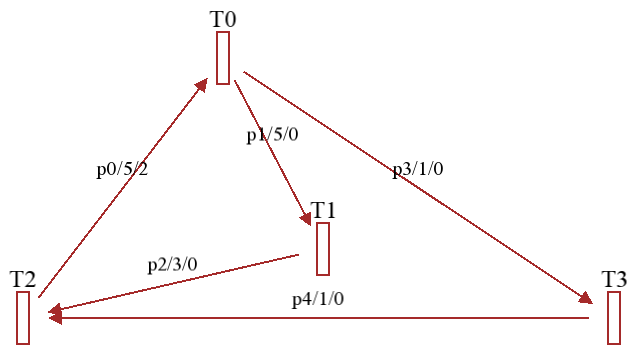
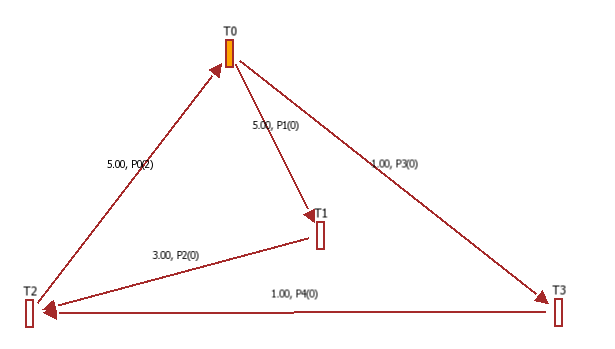
Manage graph event

diff --git a/src/PetriEditor.cpp b/src/PetriEditor.cpp
@@ -96,11 +96,14 @@ PetriEditor::PetriEditor(Application& application, PetriNet& net)
 
     switch (m_petri_net.type())
     {
+    case PetriNet::Type::Petri:
+        m_message_bar.setInfo("Welcome to Petri net editor! Type H key for help.");
+        break;
     case PetriNet::Type::TimedPetri:
         m_message_bar.setInfo("Welcome to timed Petri net editor! Type H key for help.");
         break;
-    case PetriNet::Type::Petri:
-        m_message_bar.setInfo("Welcome to Petri net editor! Type H key for help.");
+    case PetriNet::Type::TimedGraphEvent:
+        m_message_bar.setInfo("Welcome to timed graph event editor! Type H key for help.");
         break;
     case PetriNet::Type::GRAFCET:
         m_message_bar.setInfo("Welcome to GRAFCET editor! Type H key for help.");
@@ -312,6 +315,10 @@ void PetriEditor::draw(sf::Text& t, float const number, float const x, float con
 //------------------------------------------------------------------------------
 void PetriEditor::draw(Place const& place, uint8_t alpha)
 {
+    // In graph event we "compress" the graph by not displaying places.
+    if (m_petri_net.type() == PetriNet::Type::TimedGraphEvent)
+        return ;
+
     const float x = place.x;
     const float y = place.y;
 
@@ -411,17 +418,40 @@ void PetriEditor::draw(Transition const& transition, uint8_t alpha)
 //------------------------------------------------------------------------------
 void PetriEditor::draw(Arc const& arc, uint8_t alpha)
 {
-    // Transition -> Place
-    Arrow arrow(arc.from.x, arc.from.y, arc.to.x, arc.to.y, alpha);
-    m_render_texture.draw(arrow);
-
-    if ((arc.from.type == Node::Type::Transition) &&
-        (m_petri_net.type() == PetriNet::Type::TimedPetri))
+    if (m_petri_net.type() == PetriNet::Type::TimedGraphEvent)
     {
-        // Draw the timing
-        float x = arc.from.x + (arc.to.x - arc.from.x) / 2.0f;
-        float y = arc.from.y + (arc.to.y - arc.from.y) / 2.0f;
-        draw(m_text_token, arc.duration, x, y - 15);
+        // In graph event we "compress" the graph by not displaying places.
+        if (arc.from.type == Node::Type::Place)
+            return ;
+        // So we draw arrows between Transition to Transition using the
+        // property of graph event: there is only one place.
+        assert(arc.to.arcsOut.size() == 1u && "malformed graph event");
+        Node& next = arc.to.arcsOut[0]->to;
+        Arrow arrow(arc.from.x, arc.from.y, next.x, next.y, alpha);
+        m_render_texture.draw(arrow);
+
+        // Print the timing / tokens
+        float x = arc.from.x + (next.x - arc.from.x) / 2.0f;
+        float y = arc.from.y + (next.y - arc.from.y) / 2.0f;
+        std::stringstream stream;
+        stream << std::fixed << std::setprecision(2) << arc.duration << ", "
+               << arc.to.key << "(" << reinterpret_cast<Place&>(arc.to).tokens << ")";
+        draw(m_text_token, stream.str(), x, y - 15);
+    }
+    else
+    {
+        // Transition -> Place
+        Arrow arrow(arc.from.x, arc.from.y, arc.to.x, arc.to.y, alpha);
+        m_render_texture.draw(arrow);
+
+        if ((arc.from.type == Node::Type::Transition) &&
+            (m_petri_net.type() == PetriNet::Type::TimedPetri))
+        {
+            // Print the timing for timed petri net
+            float x = arc.from.x + (arc.to.x - arc.from.x) / 2.0f;
+            float y = arc.from.y + (arc.to.y - arc.from.y) / 2.0f;
+            draw(m_text_token, arc.duration, x, y - 15);
+        }
     }
 }
 
@@ -1162,12 +1192,24 @@ void PetriEditor::handleArcDestination()
         // create the origin node before creating the arc.
         float x = m_mouse.x;
         float y = m_mouse.y;
+        if (m_petri_net.type() == PetriNet::Type::TimedGraphEvent)
+        {
+            // With timed event graph we have to add implicit places.
+            float px = x + (m_node_from->x - x) / 2.0f;
+            float py = y + (m_node_from->y - y) / 2.0f;
+            float duration = random(1, 5);
+            Place& n = m_petri_net.addPlace(px, py);
+            if (!m_petri_net.addArc(*m_node_from, n, duration))
+            {
+                m_message_bar.setError(m_petri_net.message());
+            }
+            m_node_from = &n;
+        }
         if (m_node_from->type == Node::Type::Place)
             m_node_to = &m_petri_net.addTransition(x, y);
         else
             m_node_to = &m_petri_net.addPlace(x, y);
     }
-
     // Create the arc. Note: the duration value is only used
     // for arc Transition --> Place.
     float duration = random(1, 5);

diff --git a/src/utils/AnimatedTokens.hpp b/src/utils/AnimatedTokens.hpp
@@ -43,14 +43,24 @@ struct AnimatedToken
     //! \param[in] type_: Type of the net (Petri, timed Petri, GRAFCET ...)
     //--------------------------------------------------------------------------
     AnimatedToken(Arc& arc_, size_t tokens_, PetriNet::Type type_)
-        : arc(arc_), x(arc_.from.x), y(arc_.from.y), tokens(tokens_)
+        : arc(arc_), x(arc_.from.x), y(arc_.from.y), tokens(tokens_), type(type_)
     {
         assert(arc.from.type == Node::Type::Transition);
         assert(arc.to.type == Node::Type::Place);
 
         // Note: we are supposing the norm and duration is never updated by
         // the user during the simulation.
-        magnitude = norm(arc.from.x, arc.from.y, arc.to.x, arc.to.y);
+        if (type != PetriNet::Type::TimedGraphEvent)
+        {
+            magnitude = norm(arc.from.x, arc.from.y, arc.to.x, arc.to.y);
+        }
+        else
+        {
+            // With graph event we have to skip implicit places.
+            assert(arc.to.arcsOut.size() == 1u && "malformed graph event");
+            Node& next = arc.to.arcsOut[0]->to;
+            magnitude = norm(arc.from.x, arc.from.y, next.x, next.y);
+        }
 
         // Set the token animation speed. Depending on the type of Petri net,
         // and for pure entertainment reason, override the arc duration to
@@ -58,6 +68,7 @@ struct AnimatedToken
         switch (type_)
         {
         case PetriNet::Type::TimedPetri:
+        case PetriNet::Type::TimedGraphEvent:
             speed = magnitude / std::max(0.000001f, arc.duration);
             break;
             // In theory duration is 0 but nicer for the user to see animation.
@@ -136,9 +147,13 @@ struct AnimatedToken
     //--------------------------------------------------------------------------
     bool update(float const dt)
     {
+        // With graph event we have to skip implicit places.
+        Node& next = (type != PetriNet::Type::TimedGraphEvent)
+                   ? arc.to : arc.to.arcsOut[0]->to;
+
         offset += dt * speed / magnitude;
-        x = arc.from.x + (arc.to.x - arc.from.x) * offset;
-        y = arc.from.y + (arc.to.y - arc.from.y) * offset;
+        x = arc.from.x + (next.x - arc.from.x) * offset;
+        y = arc.from.y + (next.y - arc.from.y) * offset;
 
         return (offset >= 1.0);
     }
@@ -161,6 +176,8 @@ struct AnimatedToken
     float y;
     //! \brief Number of carried tokens.
     size_t tokens;
+    //! \brief
+    PetriNet::Type type;
     //! \brief The length of the arc.
     float magnitude;
     //! \brief The speed of the token moving along the arc.

diff --git a/src/HMI.cpp b/src/HMI.cpp
@@ -129,31 +129,16 @@ static void menu(PetriEditor& editor)
         }
         if (ImGui::BeginMenu("Actions"))
         {
-            if ("Mode")
+            if (ImGui::BeginMenu("Type of net"))
             {
-                switch (editor.m_petri_net.type())
-                {
-                case PetriNet::Type::TimedPetri:
-                    ImGui::Text("Timed Petri net");
-                    break;
-                case PetriNet::Type::Petri:
-                    ImGui::Text("Petri net");
-                    break;
-                case PetriNet::Type::GRAFCET:
-                    ImGui::Text("GRAFCET");
-                    break;
-                default:
-                    assert(false && "Unknown mode");
-                    break;
-                }
+                static int current_type = int(editor.m_petri_net.type());
 
-                // TODO selection
-                //if (ImGui::MenuItem("Timed Petri net", nullptr, false))
-                //{}
-                //if (ImGui::MenuItem("Timed Petri", nullptr, false))
-                //{}
-                //if (ImGui::MenuItem("GRAFCET", nullptr, false))
-                //{}
+                ImGui::RadioButton("Petri net", &current_type, 0);
+                ImGui::RadioButton("Timed Petri net", &current_type, 1);
+                ImGui::RadioButton("Timed graph event", &current_type, 2);
+                ImGui::RadioButton("GRAFCET", &current_type, 3);
+                editor.changeTypeOfNet(PetriNet::Type(current_type));
+                ImGui::EndMenu();
             }
             ImGui::Separator();
 

diff --git a/src/main.cpp b/src/main.cpp
@@ -28,9 +28,10 @@ static void usage(const char* name)
     std::cout
       << name << " [-t|-p|-g] [petri.json]" << std::endl
       << "Where:" << std::endl
-      << "  [-t|-p|-g] optional argument to force the type of net:" << std::endl
+      << "  [-t|-p|-e|-g] optional argument to force the type of net:" << std::endl
       << "    -t for using a timed petri mode (by default)" << std::endl
       << "    -p for using a petri mode" << std::endl
+      << "    -e for using a timed graph event mode" << std::endl
       << "    -g for using a GRAFCET mode" << std::endl
       << "  [petri.json] is an optional Petri net file to load (i.e. examples/Howard1.json)" << std::endl
       << std::endl;
@@ -44,7 +45,7 @@ int main(int argc, char* argv[])
     PetriNet::Type type = PetriNet::Type::TimedPetri;
     opterr = 0;
     int opt;
-    while ((opt = getopt(argc, argv, "gtph")) != -1)
+    while ((opt = getopt(argc, argv, "gtpeh")) != -1)
     {
         switch (opt)
         {
@@ -59,6 +60,10 @@ int main(int argc, char* argv[])
             case 'p':
                 type = PetriNet::Type::Petri;
                 std::cout << "Petri mode" << std::endl;
+                break;
+            case 'e':
+                type = PetriNet::Type::TimedGraphEvent;
+                std::cout << "Timed graph event mode" << std::endl;
                 break;
             case 'h':
                 usage(argv[0]);

diff --git a/src/PetriNet.cpp b/src/PetriNet.cpp
@@ -138,9 +138,11 @@ void PetriNet::clear()
 }
 
 //------------------------------------------------------------------------------
-void PetriNet::changeTypeOfNet(PetriNet::Type const mode)
+bool PetriNet::changeTypeOfNet(PetriNet::Type const mode, std::vector<Arc*>& erroneous_arcs)
 {
-    m_type = mode;
+    if (m_type == mode)
+        return true;
+
     switch (mode)
     {
     case PetriNet::Type::GRAFCET:
@@ -155,15 +157,19 @@ void PetriNet::changeTypeOfNet(PetriNet::Type const mode)
         Settings::maxTokens = std::numeric_limits<size_t>::max();
         Settings::firing = Settings::Fire::OneByOne;
         break;
-        // TODO: Missing type
-        //case PetriNet::Type::TimedGraphEvent:
-        //case PetriNet::Type::GraphEvent:
-        // configurate the editor to draw directly doc/Graph01.png
-        // break;
+    case PetriNet::Type::TimedGraphEvent:
+        if ((!isEmpty()) && (!isEventGraph(erroneous_arcs)))
+            return false;
+        Settings::maxTokens = std::numeric_limits<size_t>::max();
+        Settings::firing = Settings::Fire::OneByOne;
+        break;
     default:
         assert(false && "Undefined Petri behavior");
         break;
     }
+
+    m_type = mode;
+    return true;
 }
 
 //------------------------------------------------------------------------------

diff --git a/src/PetriNet.hpp b/src/PetriNet.hpp
@@ -548,8 +548,14 @@ public:
 
     //--------------------------------------------------------------------------
     //! \brief Set the type of net: GRAFCET, Petri, Timed Petri ...
+    //! \return false if the net cannot be changed (i.e. to graph event).
     //--------------------------------------------------------------------------
-    void changeTypeOfNet(PetriNet::Type const type);
+    bool changeTypeOfNet(PetriNet::Type const mode, std::vector<Arc*>& erroneous_arcs);
+    bool changeTypeOfNet(PetriNet::Type const mode)
+    {
+        std::vector<Arc*> erroneous_arcs;
+        return changeTypeOfNet(mode, erroneous_arcs);
+    }
 
     //--------------------------------------------------------------------------
     //! \brief Get the type of net: GRAFCET, Petri, Timed Petri ...

diff --git a/src/PetriEditor.hpp b/src/PetriEditor.hpp
@@ -99,6 +99,16 @@ public:
 
     bool screenshot();
     bool load();
+    bool changeTypeOfNet(PetriNet::Type const mode)
+    {
+        if (m_simulating)
+            return false;
+        if (m_petri_net.changeTypeOfNet(mode, m_marked_arcs))
+            return true;
+
+        m_message_bar.setError(m_petri_net.message());
+        return false;
+    }
     std::string const& getError() const { return m_message_bar.getText(); }
     std::vector<MessageBar::TimedMessage> const& getLogs() const { return m_message_bar.getBuffer(); }
     void clearLogs() { m_message_bar.clear(); }

diff --git a/README.md b/README.md
@@ -132,7 +132,7 @@ Julia file to indicate the correct path of the shared library
 The command line is optional. By default type of net is timed Petri.
 
 ```sh
-TimedPetriNetEditor [-t|-p|-g] [petri.json]
+TimedPetriNetEditor [-t|-p|-e|-g] [petri.json]
 ```
 
 Where:
@@ -145,6 +145,8 @@ Where:
      animated and move along arcs at the speed imposed by the arc duration. The
      current unit of time for animation is 1 second. Tokens are shuffled one by
      one on OR-divergence branches.
+
+   - `-e` for forcing the timed graph event mode. Places are marged within arcs.
 
    - `-p` for forcing the Petri mode. In this mode, places can have any number
      of tokens. Arcs have an implicit unit of time set to 0 (while they
@@ -486,13 +488,11 @@ and single arc, another way to represent event graphs in a more compact form, is
 to merge places with their unique incoming and unique out-coming arcs. From
 figure 2, we obtain the following figure 3, which is a more compact graph but
 equivalent. For example, the arc `P0/5/2` means the place `P0` with the duration
-5 and 2 tokens. Note: this editor does not yet manipulate or show this compact
-form while a prototype is made in the git branch
-[dev-compact-event-graph-disp](https://github.com/Lecrapouille/TimedPetriNetEditor/tree/dev-compact-event-graph-disp).
+5 and 2 tokens.
 
 ![Graph](doc/Graph01.png)
 
-*Fig 3 - A compact form of figure 2 (made with a modified version of the editor).*
+*Fig 3 - A compact form of figure 2 (made with this editor).*
 
 Since, graphs can be represented by adjacency matrices, and since, arcs hold two
 information (duration and tokens), event graphs can be represented by two
